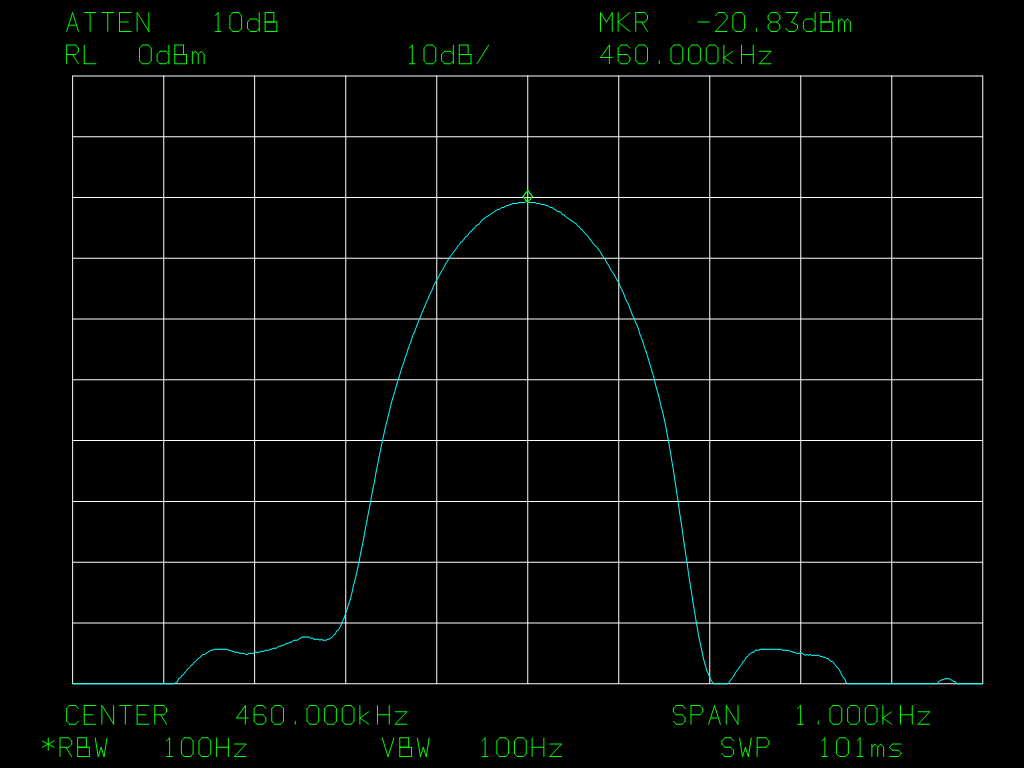
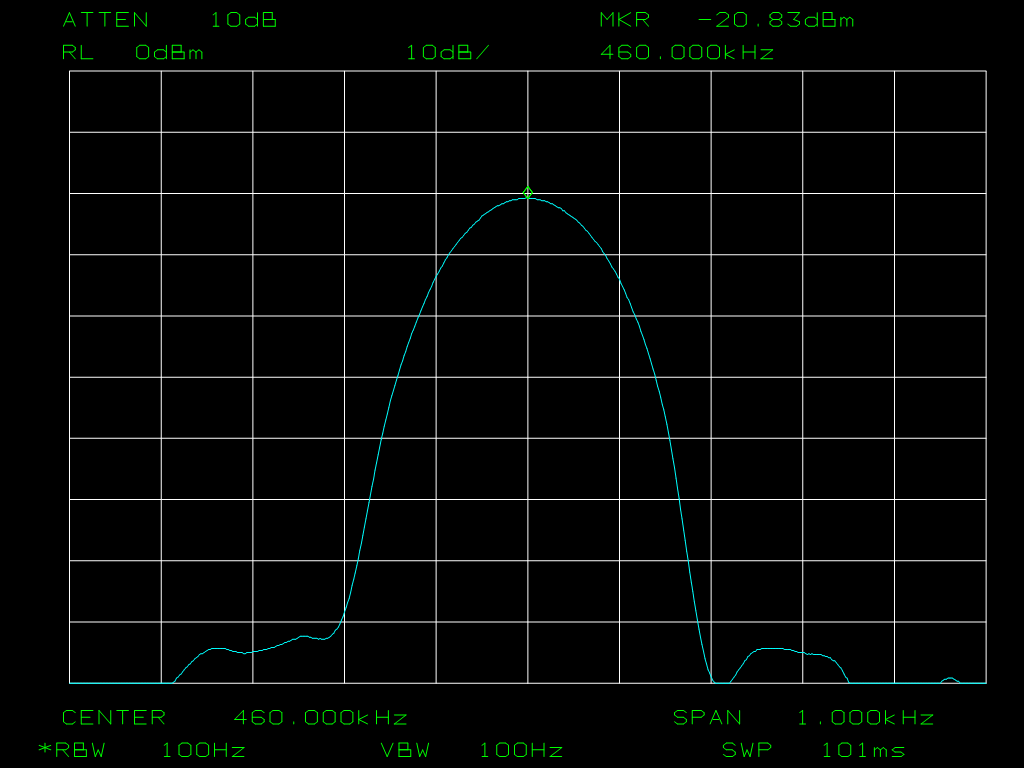
Hpgl.Rendering: non-square default P1/P2 frame (closes #28)
Our default P1/P2 frame was square (10000x10000), so SC of a square user range
yielded scaleX == scaleY and drew circles round - whereas a real HP 7475A/7550A
defaults P1/P2 to the non-square hard-clip corners of the paper (landscape
~10000x7200), making the same SC circle an ellipse. Found via the hp2xx
side-by-side on the canonical arcs.hp test file.

Default the frame to 10000x7200 (landscape, ratio ~1.39) and reset it on IN/DF.
The frame aspect now also correctly seeds SR char size, ticks, and default hatch
spacing. arcs.hp now renders wider ellipses (matching a real plotter; note hp2xx
itself defaults to a *portrait* page, so it shows taller ellipses - both
non-square, just different page orientations).

The 8563E regression plot (test.plt, which uses SR and no IP) now renders in the
correct landscape aspect matching the instrument's screen - the golden image is
regenerated accordingly (graticule + trace + marker + annotations all intact,
text better proportioned). 2 new tests pin the ellipse-vs-circle behaviour; 58
Hpgl.Rendering tests green.

diff --git a/tests/Hpgl.Rendering.Tests/HpglRendererTests.cs b/tests/Hpgl.Rendering.Tests/HpglRendererTests.cs
@@ -353,6 +353,44 @@ namespace Hpgl.Rendering.Tests
             }
         }
 
+        // ---- default P1/P2 frame aspect (issue #28) ------------------------
+
+        private static Rectangle DrawnBBox(string hpgl)
+        {
+            var opt = new HpglRenderOptions { Width = 400, Height = 400, Background = HpglBackground.Black, Antialias = false };
+            using (var bmp = HpglRenderer.RenderToBitmap(hpgl, opt))
+            {
+                int minX = int.MaxValue, minY = int.MaxValue, maxX = -1, maxY = -1;
+                for (int y = 0; y < bmp.Height; y++)
+                    for (int x = 0; x < bmp.Width; x++)
+                        if (bmp.GetPixel(x, y).ToArgb() != Color.Black.ToArgb())
+                        {
+                            if (x < minX) minX = x; if (x > maxX) maxX = x;
+                            if (y < minY) minY = y; if (y > maxY) maxY = y;
+                        }
+                return Rectangle.FromLTRB(minX, minY, maxX + 1, maxY + 1);
+            }
+        }
+
+        [Fact]
+        public void ScaleOnDefaultFrame_DrawsEllipse_NotCircle()
+        {
+            // The default P1/P2 frame is non-square (landscape ~10000x7200), so SC of a SQUARE user
+            // range makes a circle render as a wider ellipse - as a real HP 7475A/7550A does (#28).
+            var b = DrawnBBox("IN;SC0,500,0,500;PA250,250;CI100;");
+            Assert.True(b.Width > b.Height * 1.25,
+                "SC circle on the default frame should be a wider ellipse; w=" + b.Width + " h=" + b.Height);
+        }
+
+        [Fact]
+        public void ScaleOnSquareFrame_DrawsCircle()
+        {
+            // With IP forcing a square P1/P2, the same SC circle stays round.
+            var b = DrawnBBox("IN;IP0,0,10000,10000;SC0,500,0,500;PA250,250;CI100;");
+            double ratio = (double)b.Width / b.Height;
+            Assert.InRange(ratio, 0.9, 1.1);
+        }
+
         // ---- ticks (issue #8 §3.5: TL/XT/YT) -------------------------------
 
         [Fact]

diff --git a/src/Hpgl.Rendering/HpglRenderer.cs b/src/Hpgl.Rendering/HpglRenderer.cs
@@ -641,8 +641,13 @@ namespace Hpgl.Rendering
         /// <summary>The finalized 7550A polygon buffer (PM2), one entry per sub-contour. Null when none.</summary>
         public List<PointD[]> Polygon;
 
-        // Default input-point frame; only the proportions matter (auto-fit normalizes).
-        private double _ipX1 = 0, _ipY1 = 0, _ipX2 = 10000, _ipY2 = 10000;
+        // Default P1/P2 (input-point) frame. A real HP 7475A/7550A defaults P1/P2 to the hard-clip
+        // corners of the paper, which is NON-SQUARE (landscape ~10000 x 7200, ratio ~1.39) - NOT a
+        // square frame. The aspect matters: under SC, scaleX/scaleY = (P2x-P1x)/(P2y-P1y), so a square
+        // user range (e.g. SC 0,500,0,500) yields ELLIPSES on real hardware, and seeds SR char size,
+        // ticks (TL/XT/YT) and the default hatch spacing. (#28)
+        private const double DefP2X = 10000, DefP2Y = 7200;
+        private double _ipX1 = 0, _ipY1 = 0, _ipX2 = DefP2X, _ipY2 = DefP2Y;
         private double _scXmin, _scXmax, _scYmin, _scYmax;
         private bool _scaled;
 
@@ -695,6 +700,7 @@ namespace Hpgl.Rendering
             FillType = 1; FillSpacingUnits = 0; FillAngleDeg = 0; PenThicknessMm = 0.3;
             UserFillGaps = null;
             TickPosFrac = 0.005; TickNegFrac = 0.005;
+            _ipX1 = 0; _ipY1 = 0; _ipX2 = DefP2X; _ipY2 = DefP2Y; // IN/DF restore default P1/P2
             Polygon = null;
         }
 